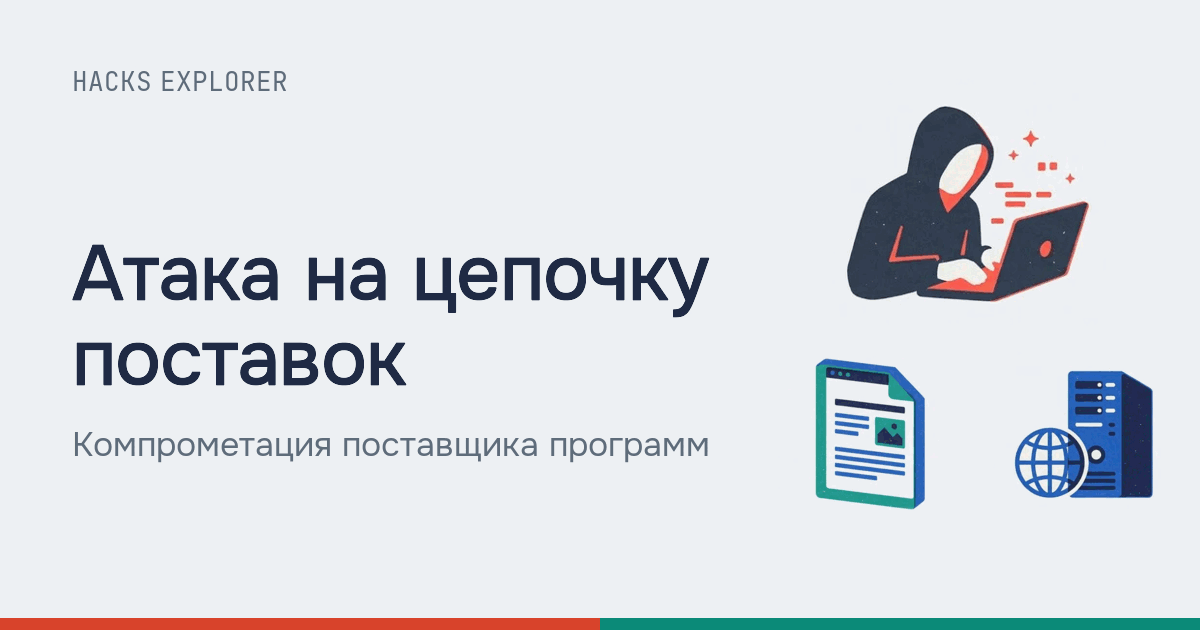
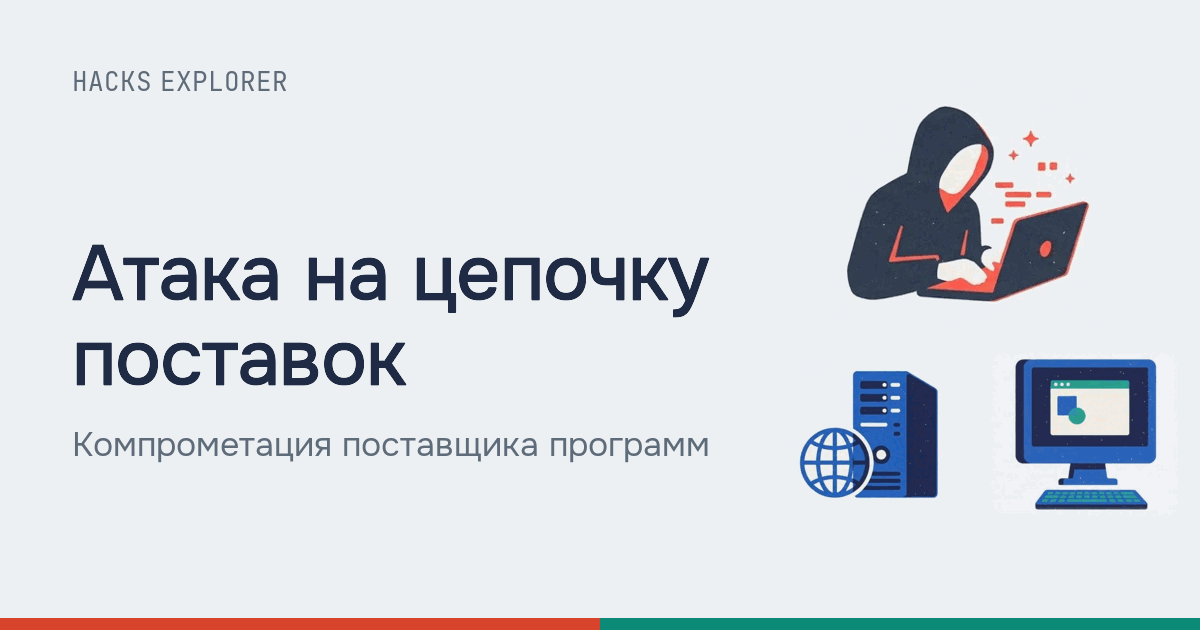
M5: lessons H4, H5, H6, I2 (ru, en): fact-check fixes, layout fixes

Changed region(s): [[0.8325, 0.5429, 0.9867, 0.8143], [0.6475, 0.573, 0.8017, 0.8143]]

diff --git a/content/lessons/H6/en.md b/content/lessons/H6/en.md
@@ -37,19 +37,19 @@
 ### `publish` A package with a lookalike name
 
 `attacker → registry` · `attack` · `icon:document`
-Message: acme-utlis 1.0.0 · Result: published
+Message: fake · Result: published
 
 ```json
 {
-  "name": "⟦acme-utlis⟧",
+  "name": "⟦acme-example-utlis⟧",
   "scripts": { "postinstall": "⟦node collect.js⟧" }
 }
 ```
 
 #### Simple
 
-There is a popular library called `acme-utils`. The attacker publishes a package named
-`acme-utlis` in the public registry: two letters swapped. It looks like an ordinary library, with
+There is a popular library called `acme-example-utils`. The attacker publishes a package named
+`acme-example-utlis` in the public registry: two letters swapped. It looks like an ordinary library, with
 harmful code inside.
 
 #### Step by step
@@ -67,15 +67,15 @@ newer variant: package names an AI assistant makes up, which the attacker regist
 ### `typo` The developer's typo
 
 `dev → mirror` · `legit`
-Message: acme-utlis · Result: request sent
+Message: typo · Result: request sent
 
 ```text
-$ npm install ⟦acme-utlis⟧
+$ npm install ⟦acme-example-utlis⟧
 ```
 
 #### Simple
 
-The developer wants to add `acme-utils` to the project, but is in a hurry and types the name with
+The developer wants to add `acme-example-utils` to the project, but is in a hurry and types the name with
 a typo. The command does not complain: a package with that name exists.
 
 #### Step by step
@@ -92,7 +92,7 @@ knowing the versions of all components you use, nested dependencies included.
 ### `deliver` The registry hands over the fake
 
 `registry → mirror` · `attack` · `without-defence`
-Message: acme-utlis · Result: passed through
+Message: fake · Result: passed through
 
 #### Simple
 
@@ -115,10 +115,10 @@ registry, and placeholder packages with the same names in the public registry.
 ### `install` The install script
 
 `mirror → dev` · `attack` · `without-defence`
-Message: acme-utlis · Result: script runs
+Message: fake · Result: script runs
 
 ```text
-> acme-utlis 1.0.0, postinstall
+> acme-example-utlis 1.0.0, postinstall
 > ⟦node collect.js⟧
 ```
 
@@ -136,8 +136,8 @@ they see the developer's files, environment variables and network.
 
 The OWASP npm cheat sheet advises not running install scripts by default: the `--ignore-scripts`
 flag or the line `ignore-scripts=true` in `.npmrc`, with an allowlist for the packages that need
-them. It adds a caveat: this only postpones them, since `npm test` and `npm start` still run
-scripts. And the library's own code will run as soon as the project calls it.
+them. The flag only stops install scripts: the library's own code will run as soon as the
+project calls it.
 
 ### `steal` Tokens go to the attacker
 
@@ -169,17 +169,17 @@ token turns an attack on one developer into a supply chain attack.
 ### `vet` The package is not on the vetted list
 
 `registry → mirror` · `attack` · `with-defence` · `stopped`
-Message: acme-utlis · Result: stopped
+Message: fake · Result: stopped
 
 ```text
-acme-utlis   ⟦not on the approved list⟧ → refused
-acme-utils   approved, version 3.2.0
+acme-example-utlis   ⟦not on the approved list⟧ → refused
+acme-example-utils   approved, version 3.2.0
 ```
 
 #### Simple
 
 Now the company's own registry serves only packages the company has checked and approved.
-`acme-utlis` is not on that list, so it never reaches the developer.
+`acme-example-utlis` is not on that list, so it never reaches the developer.
 
 #### Step by step
 
@@ -195,11 +195,11 @@ sources over secure links, prefer signed packages, and remove unused dependencie
 ### `right` Installing with a lock file
 
 `mirror → dev` · `safe` · `with-defence`
-Message: acme-utils · Result: installed
+Message: real one · Result: installed
 
 ```text
-$ npm install acme-utils --ignore-scripts
-acme-utils 3.2.0  recorded in package-lock.json
+$ npm install acme-example-utils --ignore-scripts
+acme-example-utils 3.2.0  recorded in package-lock.json
 ```
 
 #### Simple

diff --git a/content/lessons/H4/ru.md b/content/lessons/H4/ru.md
@@ -68,7 +68,6 @@
 ```text
 обход 192.0.2.0/24, порт 445
 192.0.2.22  ⟦открыт⟧
-192.0.2.10  ⟦открыт⟧
 ```
 
 #### Просто
@@ -79,7 +78,7 @@
 #### По шагам
 
 Внутри офиса компьютеры видят друг друга. Червь по очереди стучится в порт службы общих папок
-на каждом адресе и записывает, кто ответил. ПК 2 и сервер ответили.
+на каждом адресе и записывает, кто ответил. ПК 2 ответил.
 
 #### Глубже
 
@@ -100,7 +99,7 @@ UDP 137 и 138 и TCP 139 и 445, а при ответе порта 445 пыта
 #### Просто
 
 На ПК 2 не установлено обновление, и в его службе есть **уязвимость**. Червь присылает
-специально испорченный запрос, служба ломается и запускает копию червя.
+специально составленный запрос, служба ломается и запускает копию червя.
 
 #### По шагам
 
@@ -206,7 +205,7 @@ ATT&CK среди мер против T1210 — сегментация сети,
 ## Как защититься
 
 - **Ставьте обновления быстро.** Особенно на службы, которые принимают соединения из сети:
-  червь пользуется известными, уже исправленными уязвимостями.
+  черви чаще всего пользуются известными уязвимостями, для которых исправление уже вышло.
 - **Делите сеть на сегменты.** Рабочие компьютеры не должны видеть все службы серверов и друг
   друга; межсетевой экран пропускает только нужные соединения.
 - **Отключайте то, что не нужно.** Старые протоколы вроде SMBv1 и лишние службы — лишняя

diff --git a/content/lessons/I2/ru.md b/content/lessons/I2/ru.md
@@ -116,8 +116,8 @@
 
 Выдача себя за руководителя, коллегу или поставщика в MITRE ATT&CK — подтехника T1684.001
 «Social Engineering: Impersonation»; там же отмечено, что в таких письмах давят словами вроде
-«оплата» и «срочно». Похожий домен проходит SPF, DKIM и DMARC: это настоящий домен атакующего,
-и проверки подтверждают лишь, что письмо пришло с него. Иногда атакующий пишет и с настоящего
+«оплата» и «срочно». Похожий домен может пройти SPF, DKIM и DMARC: это настоящий домен
+атакующего, и если он настроил записи, проверки подтвердят лишь, что письмо пришло с него. Иногда атакующий пишет и с настоящего
 взломанного ящика, тогда адрес не отличается вовсе.
 
 ### `pay` Платёж на чужой счёт
@@ -137,8 +137,8 @@
 
 #### По шагам
 
-Ни один компьютер не взломан, пароль никто не украл. Платёж сделан настоящим сотрудником из
-настоящего банка компании, поэтому защитные системы ничего не замечают.
+Ни один компьютер не взломан, пароль никто не украл. Платёж сделан настоящим сотрудником со
+счёта компании, поэтому защитные системы часто ничего не замечают.
 
 #### Глубже
 

diff --git a/content/lessons/H4/en.md b/content/lessons/H4/en.md
@@ -69,7 +69,6 @@ Message: port 445? · Result: neighbour found
 ```text
 sweep 192.0.2.0/24, port 445
 192.0.2.22  ⟦open⟧
-192.0.2.10  ⟦open⟧
 ```
 
 #### Simple
@@ -80,7 +79,7 @@ whether the service it needs is running. That is how it finds neighbours.
 #### Step by step
 
 Inside the office, computers can reach each other. The worm knocks on the file sharing port at
-each address in turn and notes who answers. PC 2 and the server answer.
+each address in turn and notes who answers. PC 2 answers.
 
 #### Deeper
 
@@ -102,7 +101,7 @@ Message: SMB packet · Result: PC 2 infected
 #### Simple
 
 PC 2 is missing an update, and its service has a **vulnerability**. The worm sends a specially
-broken request, the service fails and starts a copy of the worm.
+crafted request, the service fails and starts a copy of the worm.
 
 #### Step by step
 
@@ -140,7 +139,7 @@ and one missing patch on many machines turn one infection into an infection of t
 organisation. RFC 4949 mentions the Morris Worm, which flooded the ARPANET in November 1988 and
 caused problems for thousands of hosts.
 
-### `payload` The blow
+### `payload` The payload hits
 
 `server → server` · `attack` · `without-defence`
 Message: payload · Result: server down
@@ -213,7 +212,7 @@ when the hole is not yet known.
 ## How to defend
 
 - **Install updates quickly.** Especially for services that accept connections from the network:
-  worms use known vulnerabilities that have already been fixed.
+  worms most often use known vulnerabilities that already have a fix.
 - **Split the network into segments.** Workstations should not see every server service or each
   other; a firewall lets through only the connections that are needed.
 - **Turn off what you do not need.** Old protocols such as SMBv1 and unused services are extra

diff --git a/content/lessons/I2/en.md b/content/lessons/I2/en.md
@@ -100,7 +100,7 @@ Message: urgent, new bank details · Result: the accountant believed it
 From: I. Petrov <ceo@⟦acme-example.example⟧>
 Subject: Urgent: payment to Supplier
 Supplier has changed banks. Pay invoice no. 318 today
-to the ⟦new account 40702…9917⟧. I'm at the fair, don't call, write.
+to the ⟦new account 40702…9917⟧. I'm at the fair, don't call, just email.
 ```
 
 #### Simple
@@ -118,8 +118,8 @@ differs by a few letters. The urgency and the "don't call" cut the accountant of
 
 Posing as an executive, a colleague or a supplier is MITRE ATT&CK sub-technique T1684.001, Social
 Engineering: Impersonation; the page notes that such emails push with words like "payment" and
-"urgent". A lookalike domain passes SPF, DKIM and DMARC: it is the attacker's real domain, and
-those checks only confirm the email came from it. Sometimes the attacker writes from a real
+"urgent". A lookalike domain can pass SPF, DKIM and DMARC: it is the attacker's real domain,
+and if they have set up the records, those checks only confirm the email came from it. Sometimes the attacker writes from a real
 compromised mailbox, and then the address does not differ at all.
 
 ### `pay` Payment to someone else's account
@@ -140,7 +140,7 @@ it is an ordinary transfer made by the customer.
 #### Step by step
 
 No computer was hacked, no password was stolen. The payment was made by a real employee from the
-company's real bank, so security systems notice nothing.
+company's own account, so security systems often notice nothing.
 
 #### Deeper
 

diff --git a/content/lessons/H5/ru.md b/content/lessons/H5/ru.md
@@ -205,14 +205,15 @@ MITRE ATT&CK отмечает, что атакующий может распро
 
 #### По шагам
 
-Сборка **воспроизводимая**: из одного кода всегда получается файл, одинаковый до бита.
+Сборка **воспроизводимая**: из одного кода и тех же входных данных всегда получается файл,
+одинаковый до бита.
 Атакующий изменил только одну сборку, поэтому её отпечаток отличается от второй.
 
 #### Глубже
 
 Руководство NSA, ODNI и CISA для разработчиков (2022) называет воспроизводимые сборки дополнительной
 защитой от взлома систем сборки: повторная сборка тех же входных данных даёт побитно одинаковый
-результат. NIST SSDF (практика PO.5) требует защищать среды разработки, а задача PS.3.2 —
+результат. NIST SSDF (практика PO.5) рекомендует защищать среды разработки, а задача PS.3.2 —
 собирать и передавать сведения о происхождении каждого компонента выпуска.
 
 ### `clean` Клиент получает сверенный выпуск

diff --git a/content/locales/ru/glossary/malware.md b/content/locales/ru/glossary/malware.md
@@ -79,8 +79,8 @@ ATT&CK это техника T1195.
 
 Формы: typosquatting, тайпсквоттинг, тайпсквоттинга, тайпсквоттингом
 
-Регистрация имени, похожего на известное, в расчёте на опечатку: пакета `acme-utlis` вместо
-`acme-utils` или домена с переставленными буквами. Кто ошибся при наборе, получает код или
+Регистрация имени, похожего на известное, в расчёте на опечатку: пакета `acme-example-utlis` вместо
+`acme-example-utils` или домена с переставленными буквами. Кто ошибся при наборе, получает код или
 страницу атакующего.
 
 ## `dependency-confusion` Путаница зависимостей

diff --git a/content/locales/en/glossary/malware.md b/content/locales/en/glossary/malware.md
@@ -77,8 +77,8 @@ ATT&CK this is technique T1195.
 
 Forms: typosquatting
 
-Registering a name that looks like a well-known one, counting on typos: the package `acme-utlis`
-instead of `acme-utils`, or a domain with swapped letters. Whoever mistypes gets the attacker's
+Registering a name that looks like a well-known one, counting on typos: the package `acme-example-utlis`
+instead of `acme-example-utils`, or a domain with swapped letters. Whoever mistypes gets the attacker's
 code or page.
 
 ## `dependency-confusion` Dependency confusion

diff --git a/content/lessons/H5/en.md b/content/lessons/H5/en.md
@@ -207,8 +207,8 @@ compares the results. They do not match, and the release does not go out to cust
 
 #### Step by step
 
-The build is **reproducible**: the same code always gives a file that is identical down to the
-bit. The attacker altered only one build, so its fingerprint differs from the other one.
+The build is **reproducible**: the same code and the same inputs always give a file that is
+identical down to the bit. The attacker altered only one build, so its fingerprint differs from the other one.
 
 #### Deeper
 
